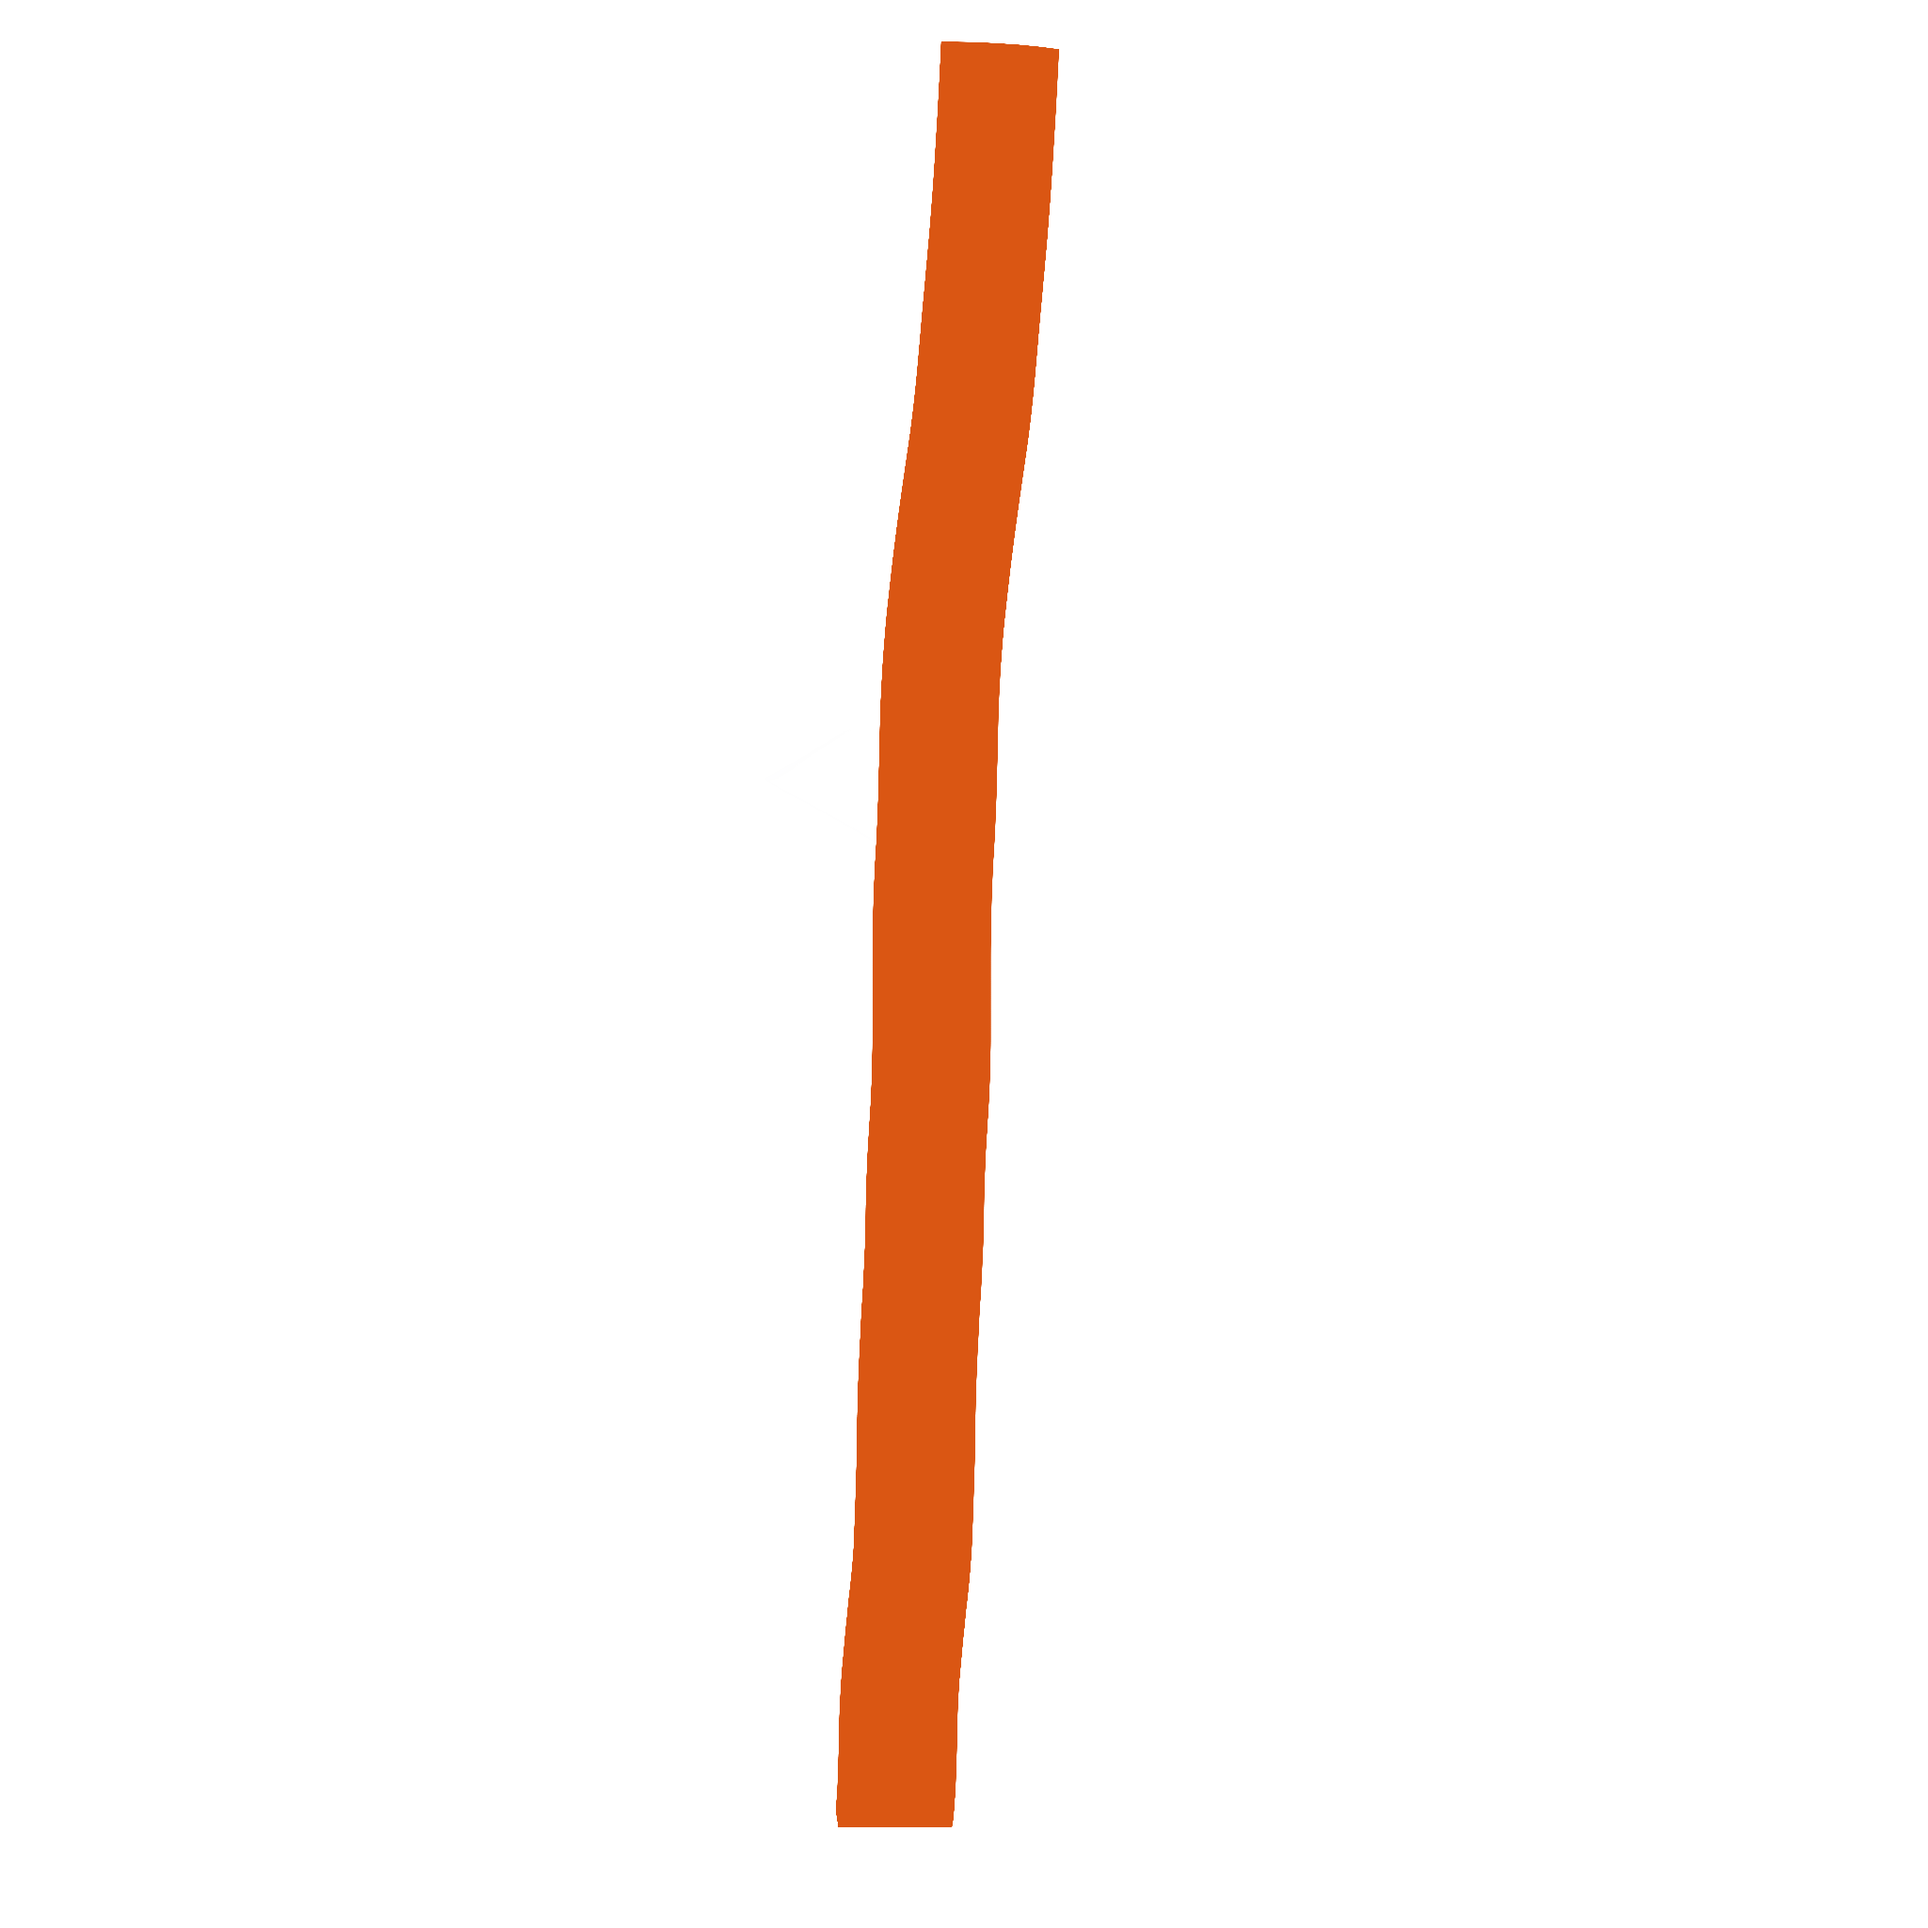
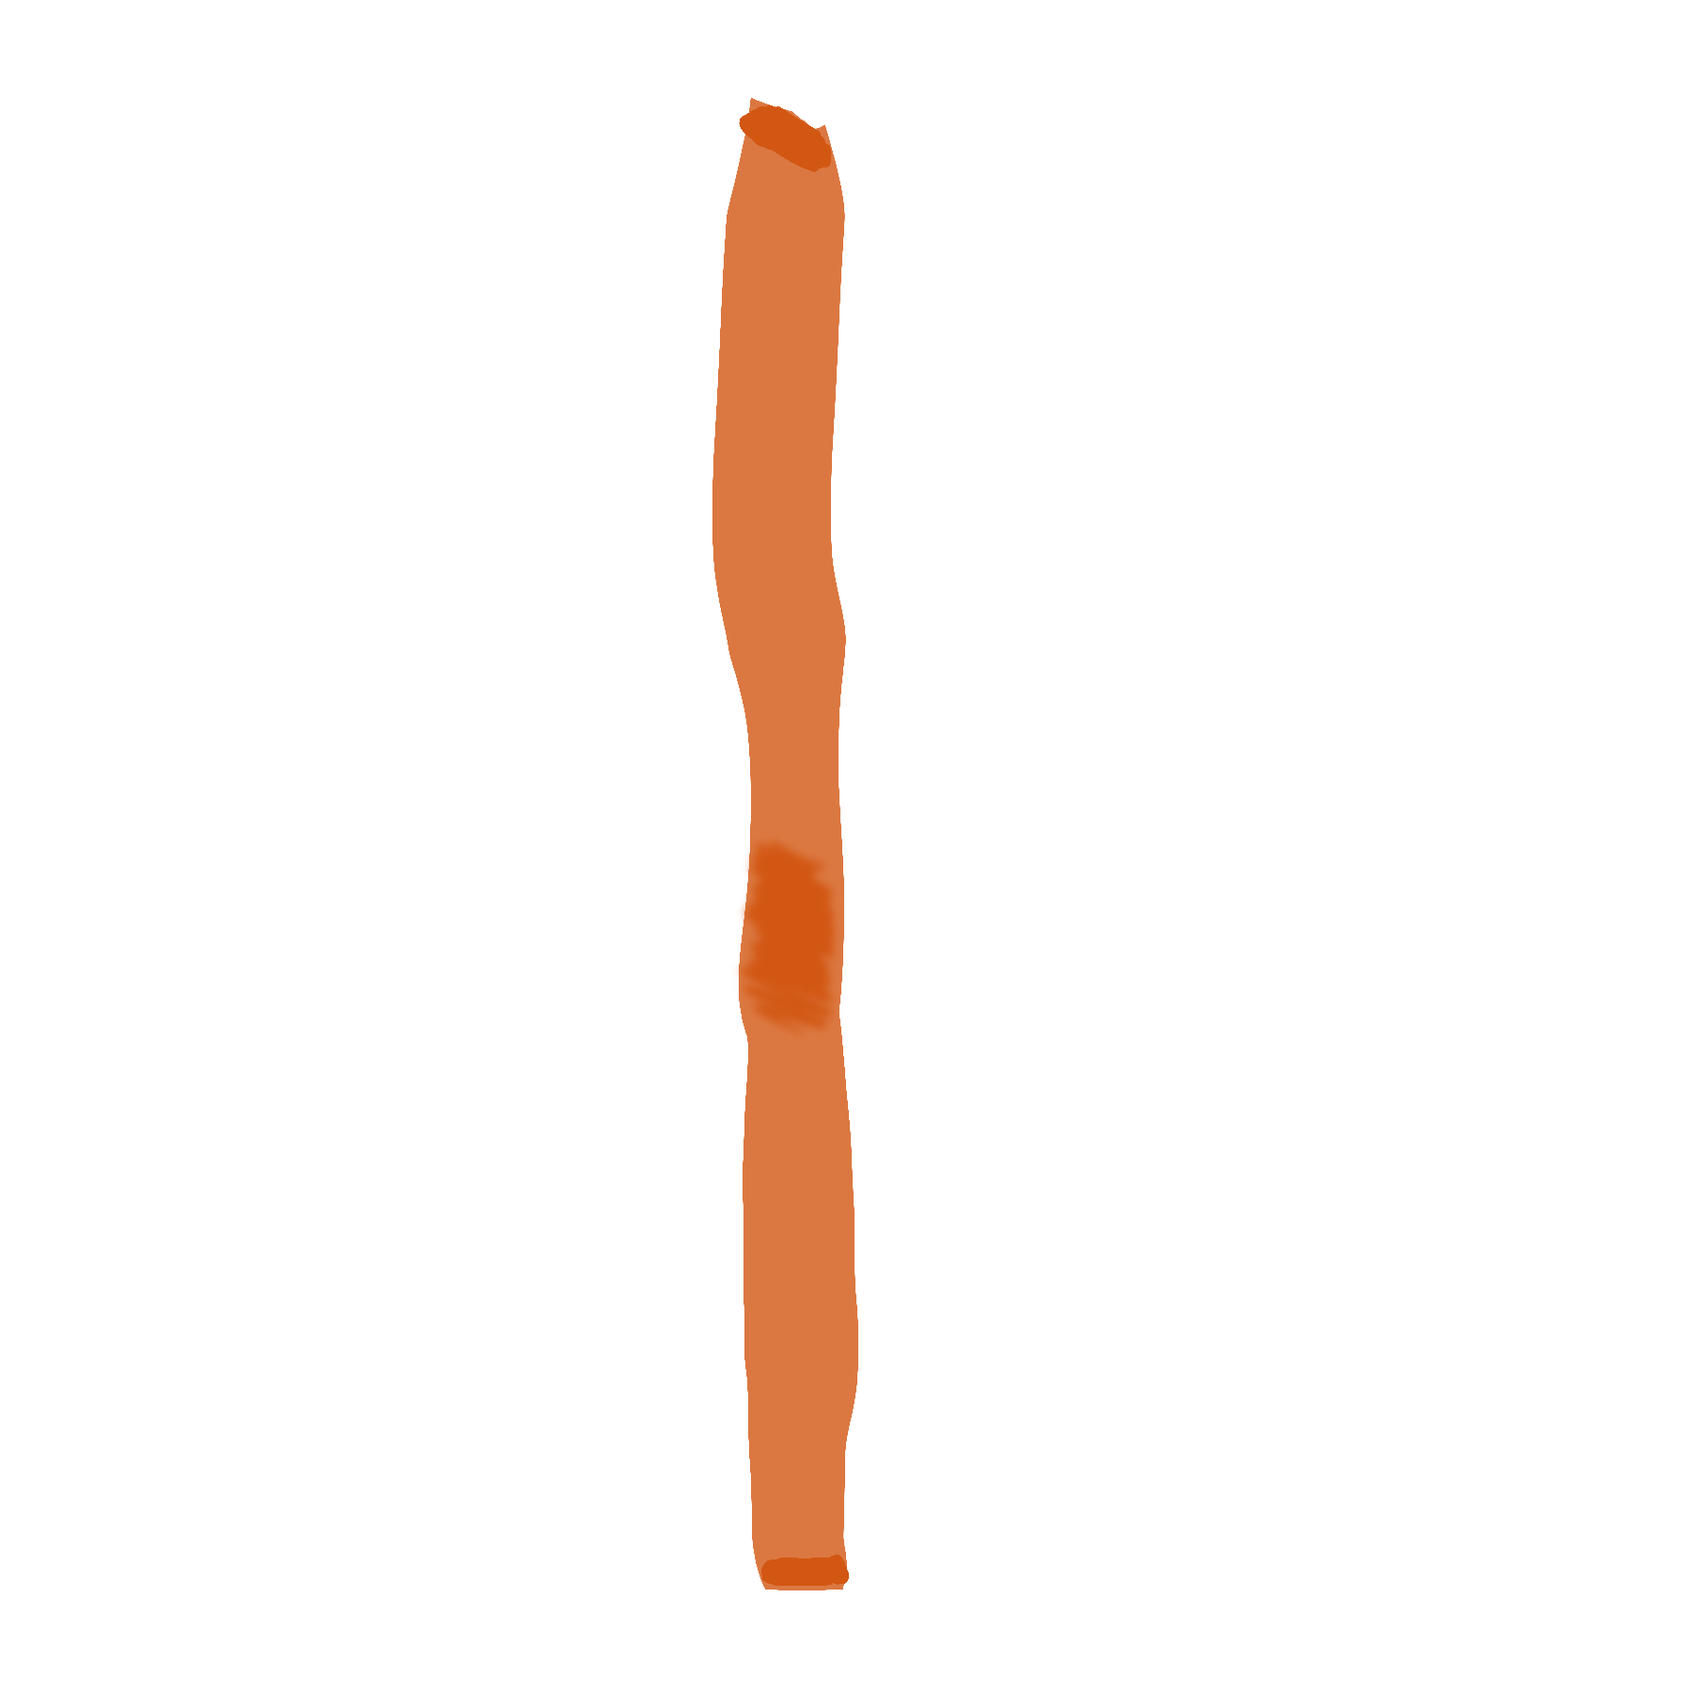
carga total de manchas y agregue textura de papel al fondo

Changed region(s): [[0.4044, 0.0, 0.56, 0.9644]]

diff --git a/sketch.js b/sketch.js
@@ -1,10 +1,11 @@
 let lineasVerticales = [];
 let cantidadVerticales = 9;
 let c;
-let cantidadHorizontales = 2;
+let cantidadHorizontales = 5;
 let cantidadSprites = 5;
 let lineasHorizontales = [];
 let m;
+let bg;
 // let posY = 0;
 
 function preload() {
@@ -19,6 +20,7 @@ function preload() {
       lineasHorizontales[i][z] = loadImage("data/mancha" + i + z + ".png");
   }
 }
+bg = loadImage("data/bg.jpg");
 
 }
 
@@ -33,14 +35,24 @@ function setup() {
 }
 
 function draw() {
-  background(156, 203, 241);
+  //background(156, 203, 241);
+  push();
+  tint(156, 203, 241); //opacidad baja
+  image (bg, width/2, height/2, width, width)
+  pop();
   
   c.actualizar();
   c.dibujar();
 
  m.dibujar();
   m.actualizar();
+  
+//aguante el pincha papa
 
+  push();
+  tint(255, 30); //opacidad baja, se repite despues de dibujar las pinceladas para que la textura se genere tamb en las pinceladas
+  image (bg, width/2, height/2, width, width)
+  pop();
   
   //estos textos sirven de ayuda para entender como funciona el prototipo
   text("mouseY en este cuadrante simula voz aguda", 10, (height/2)-50, 100);
